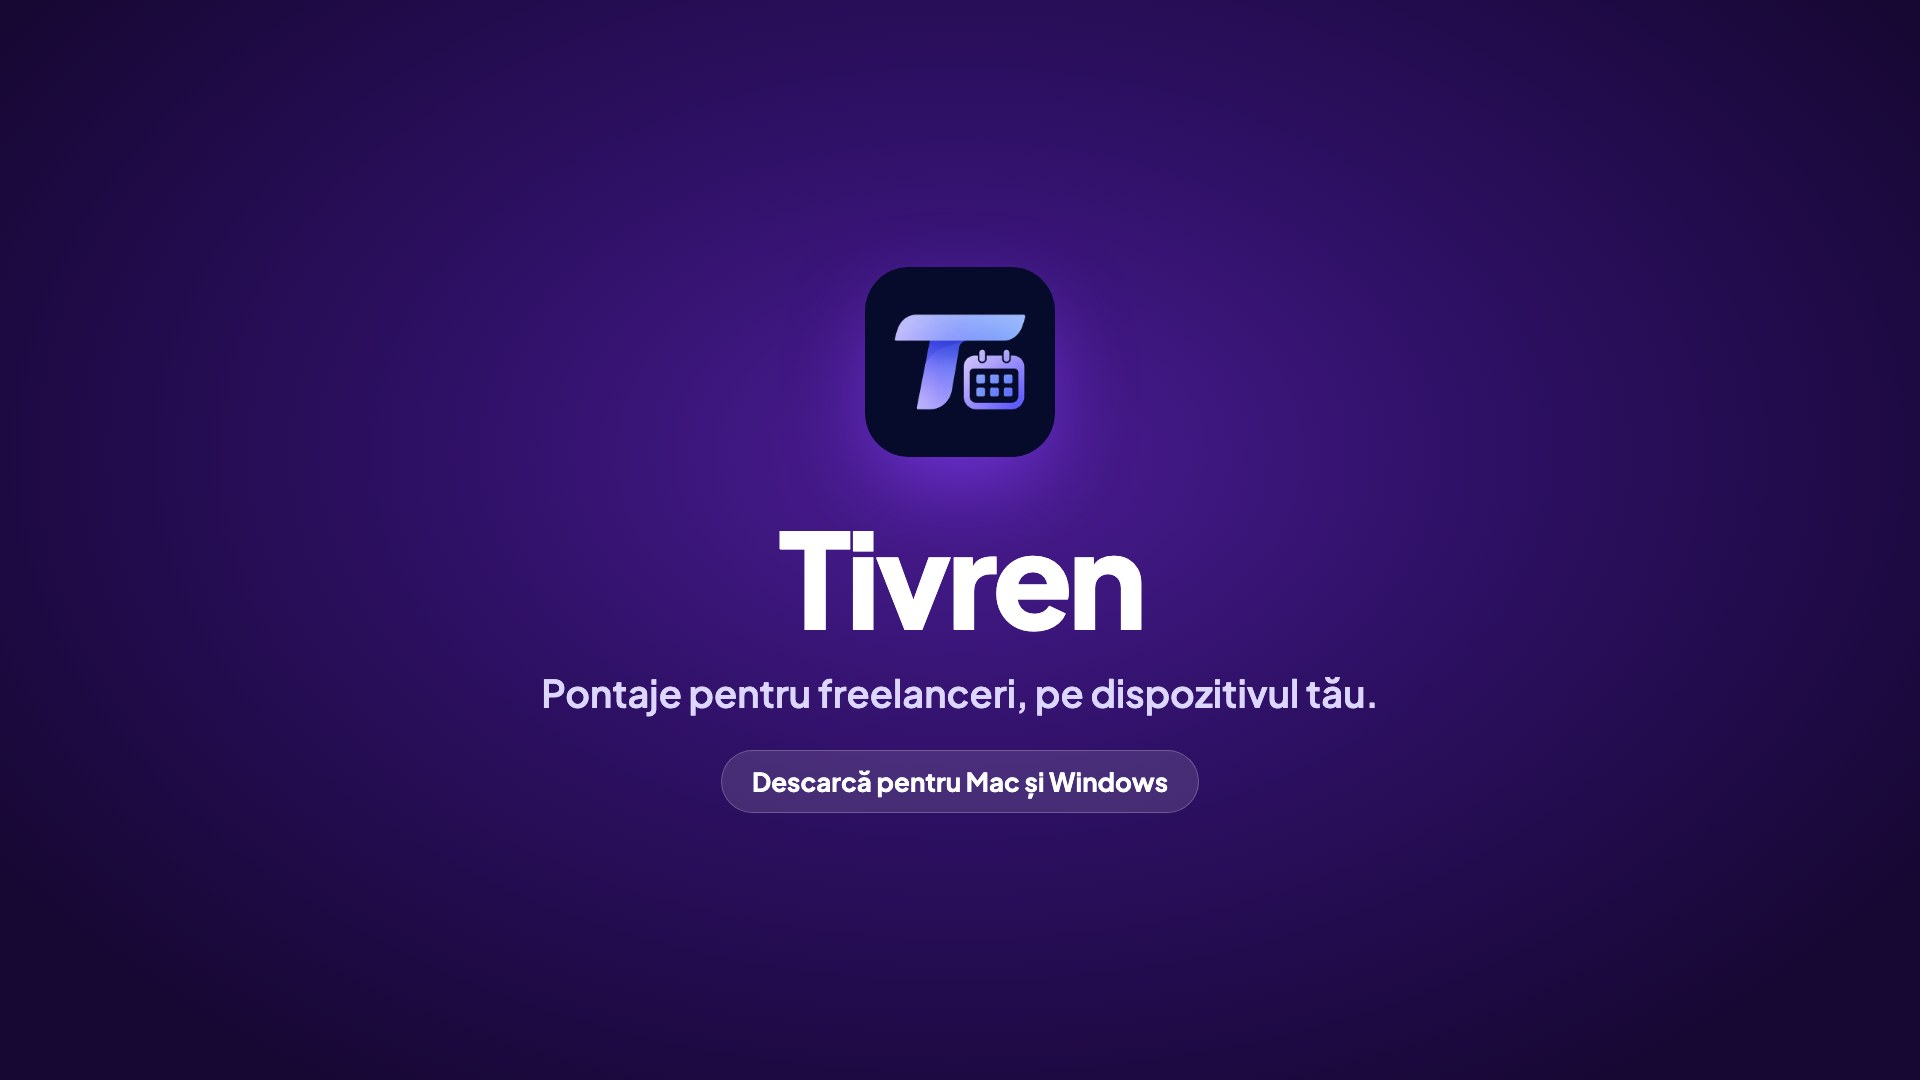
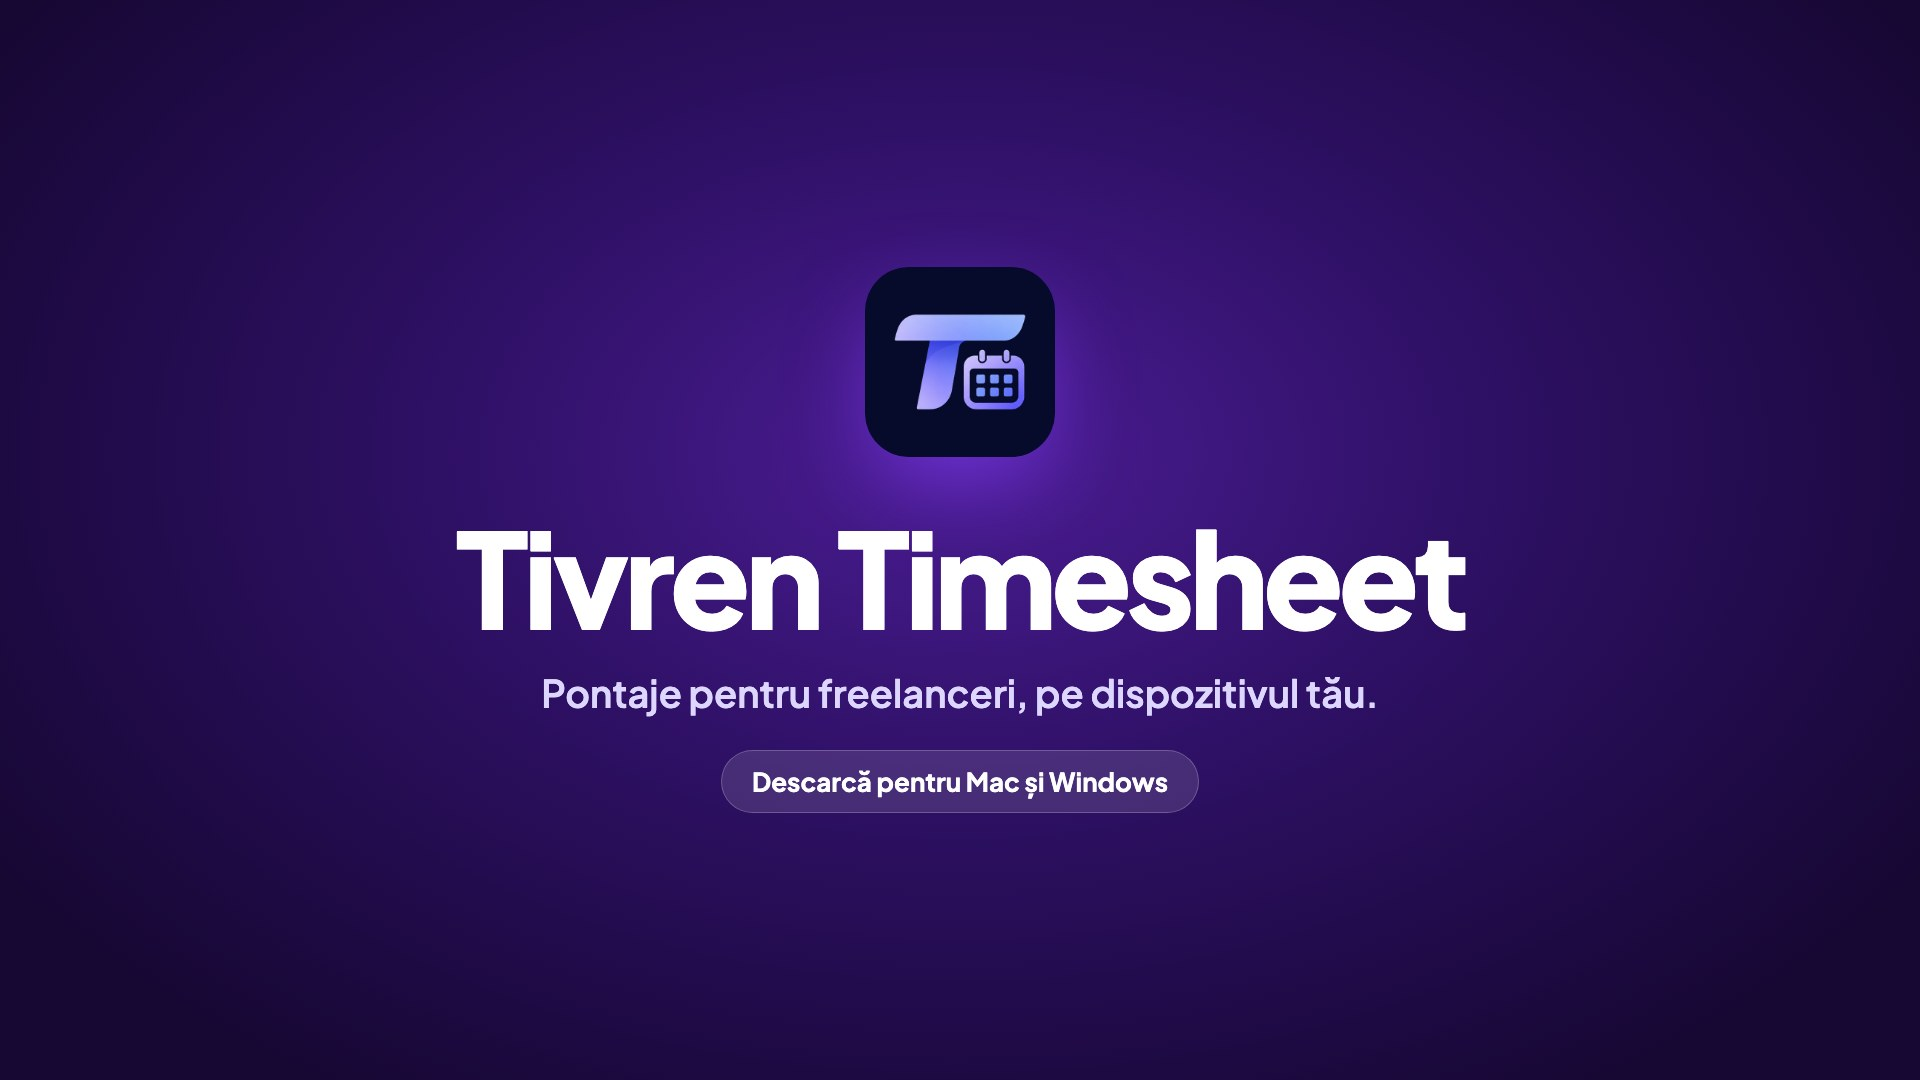
chore: adjust tivren branding personal projects

Changed region(s): [[0.2188, 0.4889, 0.7812, 0.5806]]

diff --git a/src/data/projects.ts b/src/data/projects.ts
@@ -4,10 +4,23 @@ export const projects: Project[] = [
   {
     id: "tivren",
     kind: "personal",
-    tags: ["React Native", "Expo", "Electron", "TypeScript", "React", "Vite", "SQLite", "Jotai", "i18next"],
+    tags: [
+      "React Native",
+      "Expo",
+      "Electron",
+      "TypeScript",
+      "React",
+      "Vite",
+      "SQLite",
+      "Jotai",
+      "i18next",
+    ],
     links: [
-      { id: "website", href: "https://tivren.netlify.app/" },
-      { id: "source", href: "https://github.com/MoldovanAlexandruVasile/tivren-website" },
+      { id: "website", href: "https://tivren-timesheet.netlify.app/" },
+      {
+        id: "source",
+        href: "https://github.com/MoldovanAlexandruVasile/tivren-timesheet-website",
+      },
     ],
     // Alt texts are in content.projects.tivren.images, in the same order.
     images: [
@@ -20,10 +33,24 @@ export const projects: Project[] = [
   {
     id: "casita",
     kind: "personal",
-    tags: ["React Native", "Expo", "TypeScript", "SQLite", "TanStack Query", "Jotai", "i18next", "React", "Vite", "Tailwind CSS"],
+    tags: [
+      "React Native",
+      "Expo",
+      "TypeScript",
+      "SQLite",
+      "TanStack Query",
+      "Jotai",
+      "i18next",
+      "React",
+      "Vite",
+      "Tailwind CSS",
+    ],
     links: [
-      { id: "website", href: "https://casita-budget.netlify.app/" },
-      { id: "source", href: "https://github.com/MoldovanAlexandruVasile/casita-website" },
+      { id: "website", href: "https://tivren-budget.netlify.app/" },
+      {
+        id: "source",
+        href: "https://github.com/MoldovanAlexandruVasile/tivren-budget-website",
+      },
     ],
     // Alt texts are in content.projects.casita.images, in the same order.
     images: [
@@ -36,7 +63,15 @@ export const projects: Project[] = [
   {
     id: "healthcare-portal",
     kind: "professional",
-    tags: ["React", "TypeScript", "Jotai", "TanStack Query", "GraphQL", "Tailwind CSS", "WCAG"],
+    tags: [
+      "React",
+      "TypeScript",
+      "Jotai",
+      "TanStack Query",
+      "GraphQL",
+      "Tailwind CSS",
+      "WCAG",
+    ],
   },
   {
     id: "dev-tool",
@@ -52,6 +87,11 @@ export const projects: Project[] = [
     id: "accu",
     kind: "academic",
     tags: ["Android", "Java"],
-    links: [{ id: "source", href: "https://github.com/MoldovanAlexandruVasile/Licenta" }],
+    links: [
+      {
+        id: "source",
+        href: "https://github.com/MoldovanAlexandruVasile/Licenta",
+      },
+    ],
   },
 ];

diff --git a/src/i18n/locales/ro/content.ts b/src/i18n/locales/ro/content.ts
@@ -92,7 +92,7 @@ export const content: CvContent = {
   },
   projects: {
     tivren: {
-      name: "Tivren",
+      name: "Tivren Timesheet",
       tagline: "Pontaje pentru freelanceri, fără bătăi de cap.",
       description:
         "O aplicație offline de pontaj pentru freelanceri: înregistrezi zilele lucrate la fiecare client, îți notezi zilele libere și exporți pontajul lunar în Excel sau PDF. Sărbătorile legale sunt luate în calcul automat, iar datele rămân pe dispozitiv: fără cont, fără server. Am construit-o cu Expo / React Native pentru mobil și cu Electron pentru Mac și Windows, iar site-ul de prezentare, făcut în React + Vite, distribuie versiuni semnate, care se actualizează automat.",
@@ -101,14 +101,14 @@ export const content: CvContent = {
         source: "Codul site-ului",
       },
       images: [
-        "Pontajul zilnic din Tivren",
+        "Pontajul zilnic din Tivren Timesheet",
         "Luna dintr-o privire",
         "Export în Excel sau PDF",
         "Modul întunecat",
       ],
     },
     casita: {
-      name: "Casita",
+      name: "Tivren Budget",
       tagline: "Bugetul casei, în sfârșit liniștit.",
       description:
         "O aplicație de buget pentru casă, pe iPhone și Android, care va fi lansată în curând: îți planifici luna în câteva minute, dai fiecărei categorii un plafon, economisești pentru obiective în seifuri separate și îți compari cheltuielile zilnice cu un ritm sigur. Poți începe ca invitat, cu totul salvat pe telefon, sau te poți conecta ca datele să fie sincronizate, iar aplicația se poate bloca cu Face ID sau amprenta. Am construit-o cu Expo / React Native, Expo Router, SQLite, TanStack Query și Jotai, iar site-ul de prezentare, făcut în React + Vite + Tailwind, este în română și engleză.",
@@ -117,7 +117,7 @@ export const content: CvContent = {
         source: "Codul site-ului",
       },
       images: [
-        "Planificarea lunii în Casita",
+        "Planificarea lunii în Tivren Budget",
         "Cât mai ai de cheltuit",
         "Seifuri de economii",
         "Modul întunecat",

diff --git a/src/i18n/locales/en/content.ts b/src/i18n/locales/en/content.ts
@@ -89,7 +89,7 @@ export const content: CvContent = {
   },
   projects: {
     tivren: {
-      name: "Tivren",
+      name: "Tivren Timesheet",
       tagline: "Timesheets for freelancers, without the spreadsheet.",
       description:
         "An offline timesheet app for freelancers: log the days you work per client, take days off, and export a monthly timesheet to Excel or PDF. Bank holidays are applied automatically and everything stays on the device: no account, no backend. Built with Expo / React Native for mobile and Electron for Mac and Windows, with a React + Vite marketing site that serves signed auto-updating releases.",
@@ -98,14 +98,14 @@ export const content: CvContent = {
         source: "Website source",
       },
       images: [
-        "Tivren daily check-in",
+        "Tivren Timesheet daily check-in",
         "Month at a glance",
         "Export to Excel or PDF",
         "Dark mode",
       ],
     },
     casita: {
-      name: "Casita",
+      name: "Tivren Budget",
       tagline: "Your household budget, finally calm.",
       description:
         "A household budgeting app for iPhone and Android, coming soon: plan the month in a few minutes, give every category a cap, save towards goals in separate vaults and compare your daily spending with a safe pace. Start as a guest with everything on the phone, or sign in to keep it in sync, and lock the app with Face ID or a fingerprint. Built with Expo / React Native, Expo Router, SQLite, TanStack Query and Jotai, with a React + Vite + Tailwind presentation site in English and Romanian.",
@@ -114,7 +114,7 @@ export const content: CvContent = {
         source: "Website source",
       },
       images: [
-        "Planning the month in Casita",
+        "Planning the month in Tivren Budget",
         "What's left to spend",
         "Savings vaults",
         "Dark mode",

diff --git a/README.md b/README.md
@@ -28,7 +28,7 @@ To add a role or project, add it to `src/data/` and add its text under the same
 id in both `content.ts` files. English is the reference: `tsc` fails if a `t()`
 key or a Romanian UI key is missing.
 
-The Tivren screenshots in `public/media` (Romanian ones in `public/media/ro`) come from the `tivren-website` repo.
+The Tivren Timesheet screenshots in `public/media` (Romanian ones in `public/media/ro`) come from the `tivren-timesheet-website` repo.
 
 ## SEO
 
